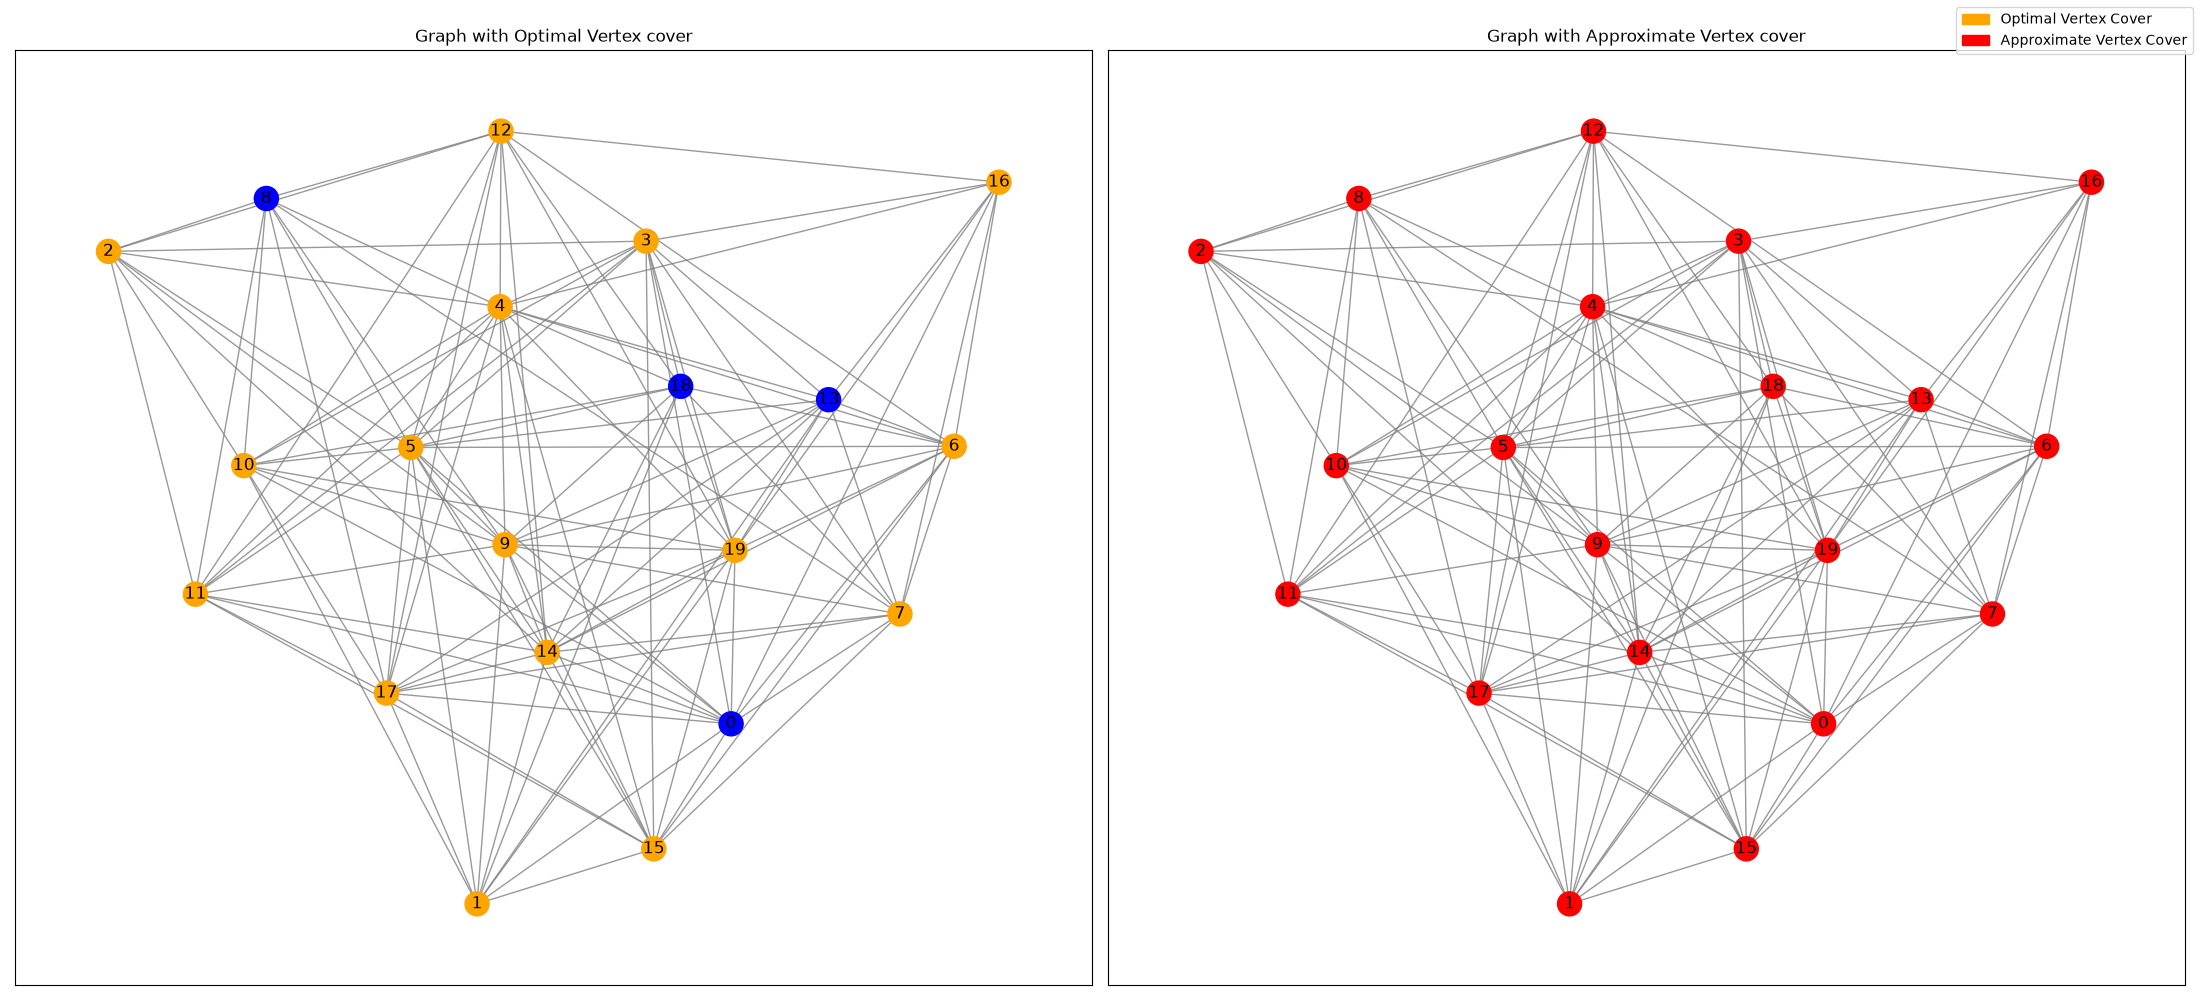
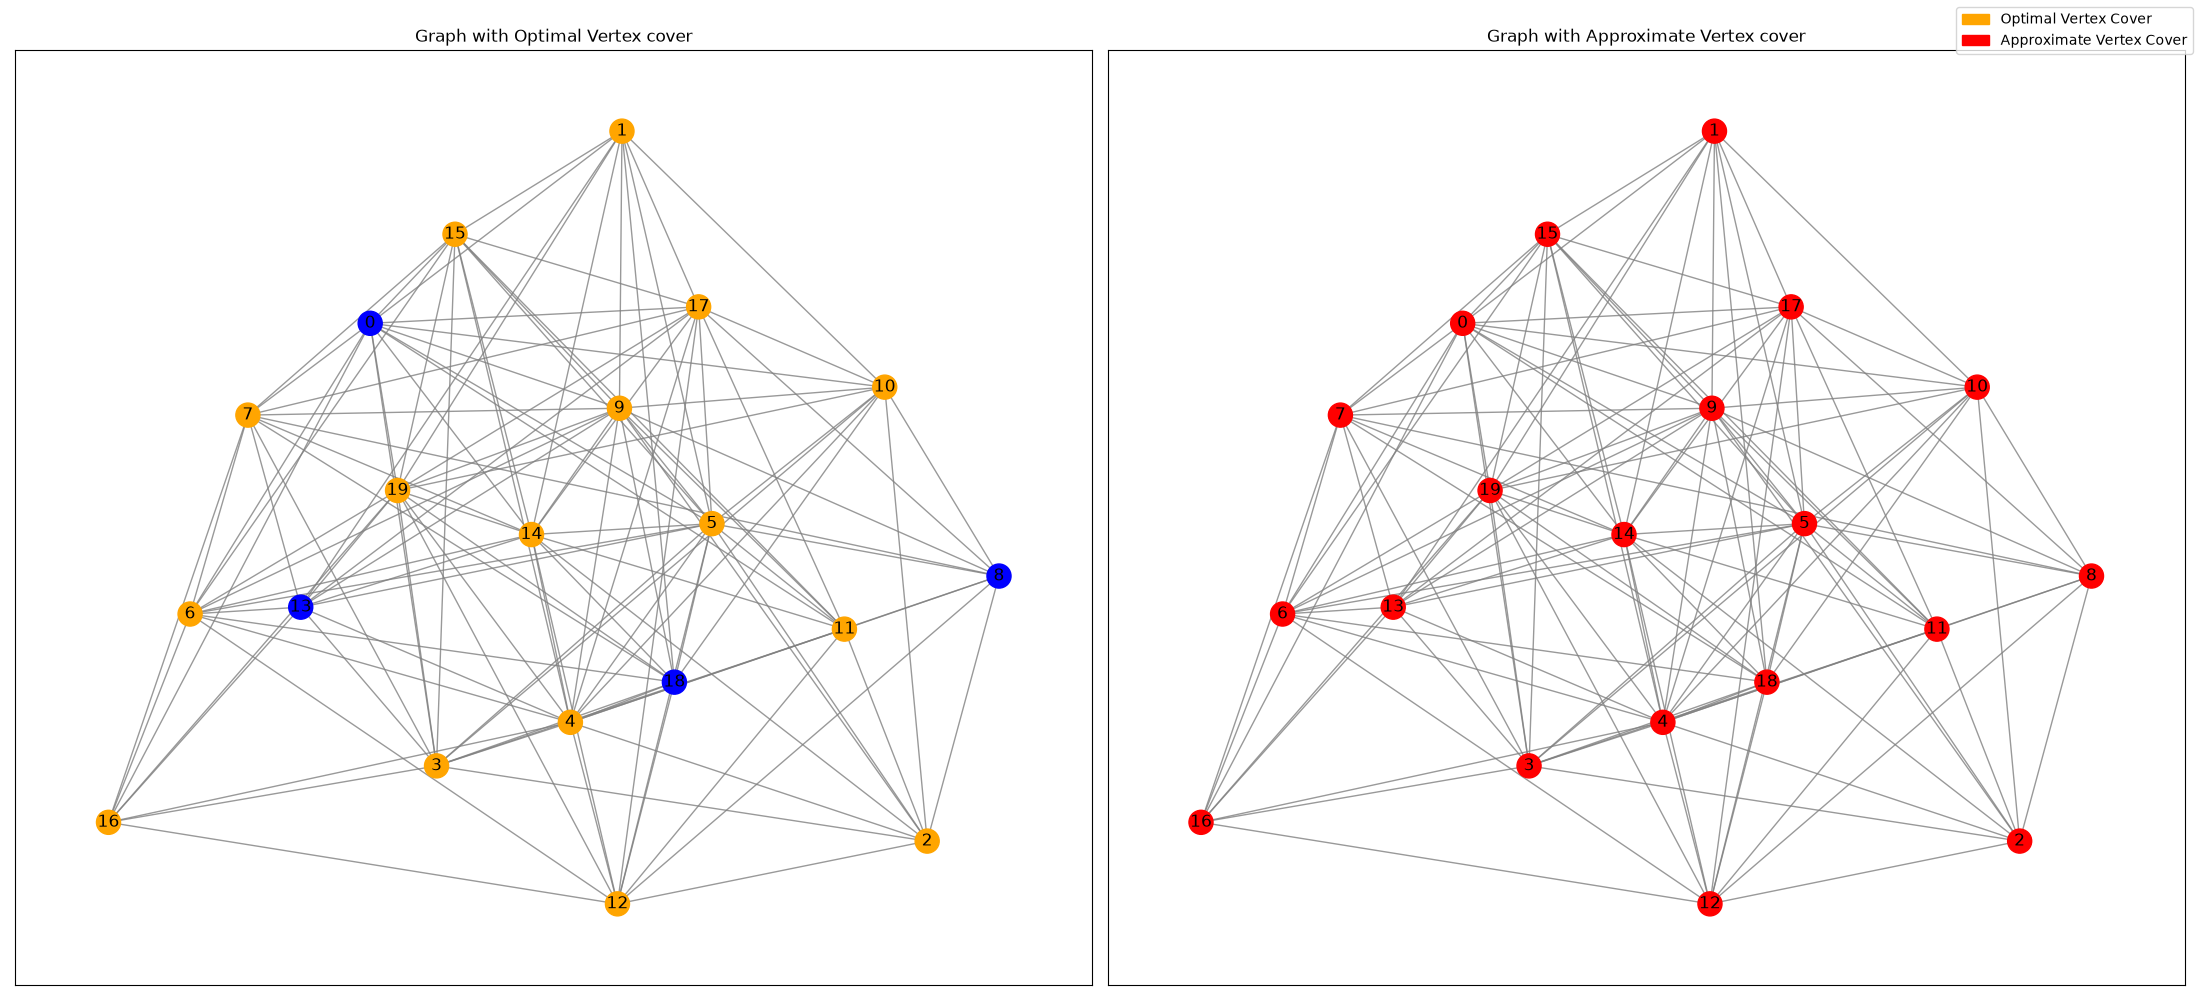
LP Optimal Table fix

diff --git a/utils.py b/utils.py
@@ -29,10 +29,12 @@ def visualise(
     ax[0].set_title("Graph with Optimal Vertex cover")
     netx.draw_networkx_nodes(graph, layout, node_color=optimal_colour, ax=ax[0])
     netx.draw_networkx_edges(graph, layout, edge_color="gray", alpha=0.8, ax=ax[0])
+    netx.draw_networkx_labels(graph, layout, ax=ax[0])
 
     ax[1].set_title("Graph with Approximate Vertex cover")
     netx.draw_networkx_nodes(graph, layout, node_color=approx_colour, ax=ax[1])
     netx.draw_networkx_edges(graph, layout, edge_color="gray", alpha=0.8, ax=ax[1])
+    netx.draw_networkx_labels(graph, layout, ax=ax[1])
 
     fig.legend(
         handles=[optimal_legend_patch, approx_legend_patch]

diff --git a/main.py b/main.py
@@ -61,6 +61,8 @@ def execute_for_res_dir(res_dir: pth.Path) -> None:
              len(graph.solution_approx) / len(graph.solution),
              len(data.matching_vertices) / len(graph.solution)]
         )
+    
+    table_data = sorted(table_data, key=lambda x: x[0][1])
 
     with open(res_dir.joinpath("table.csv"), "w") as file:
         writer = csv.writer(file)
